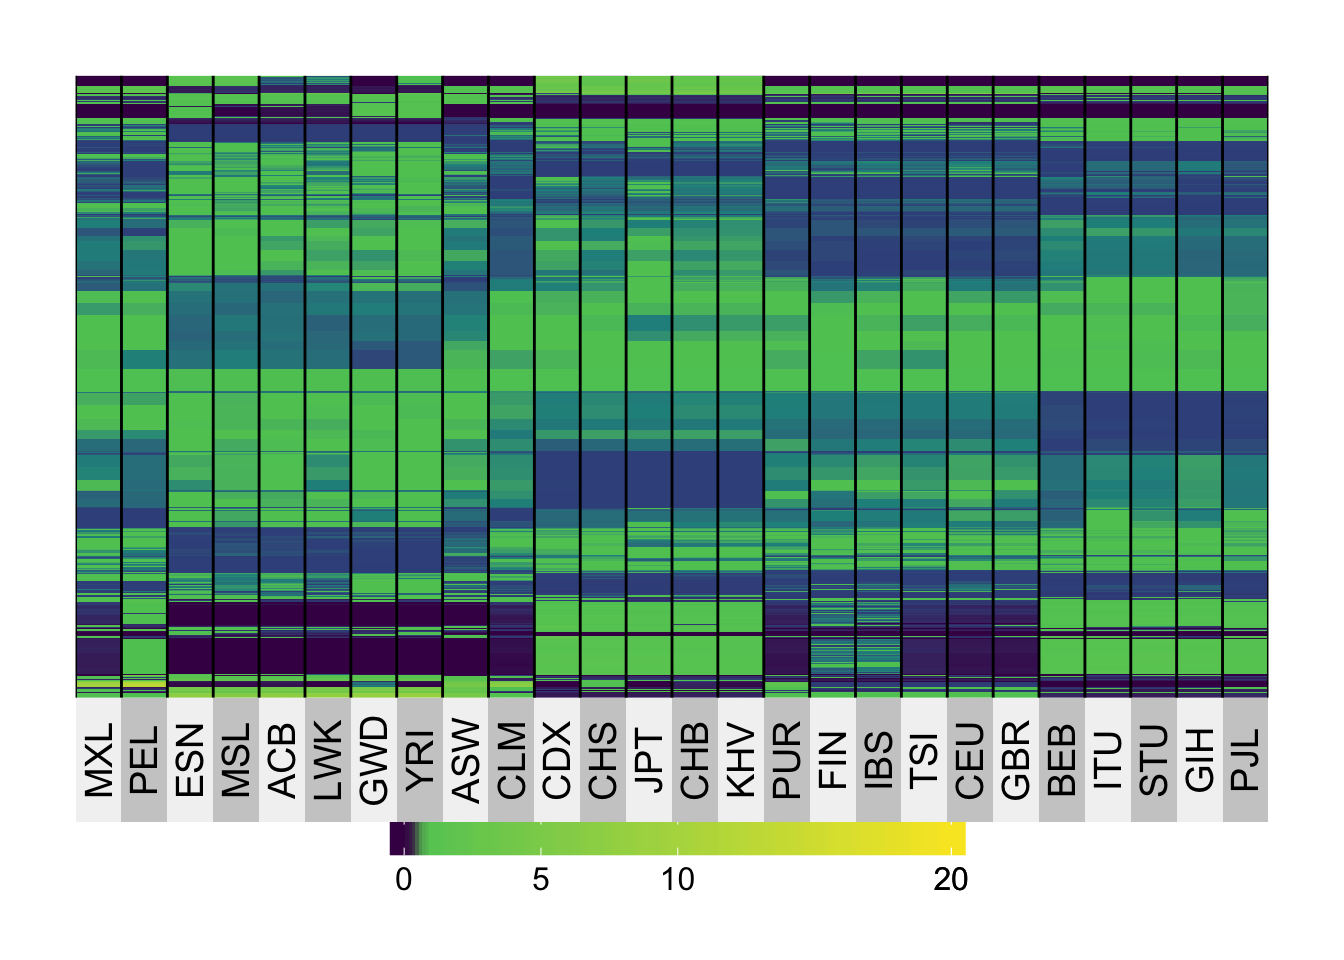
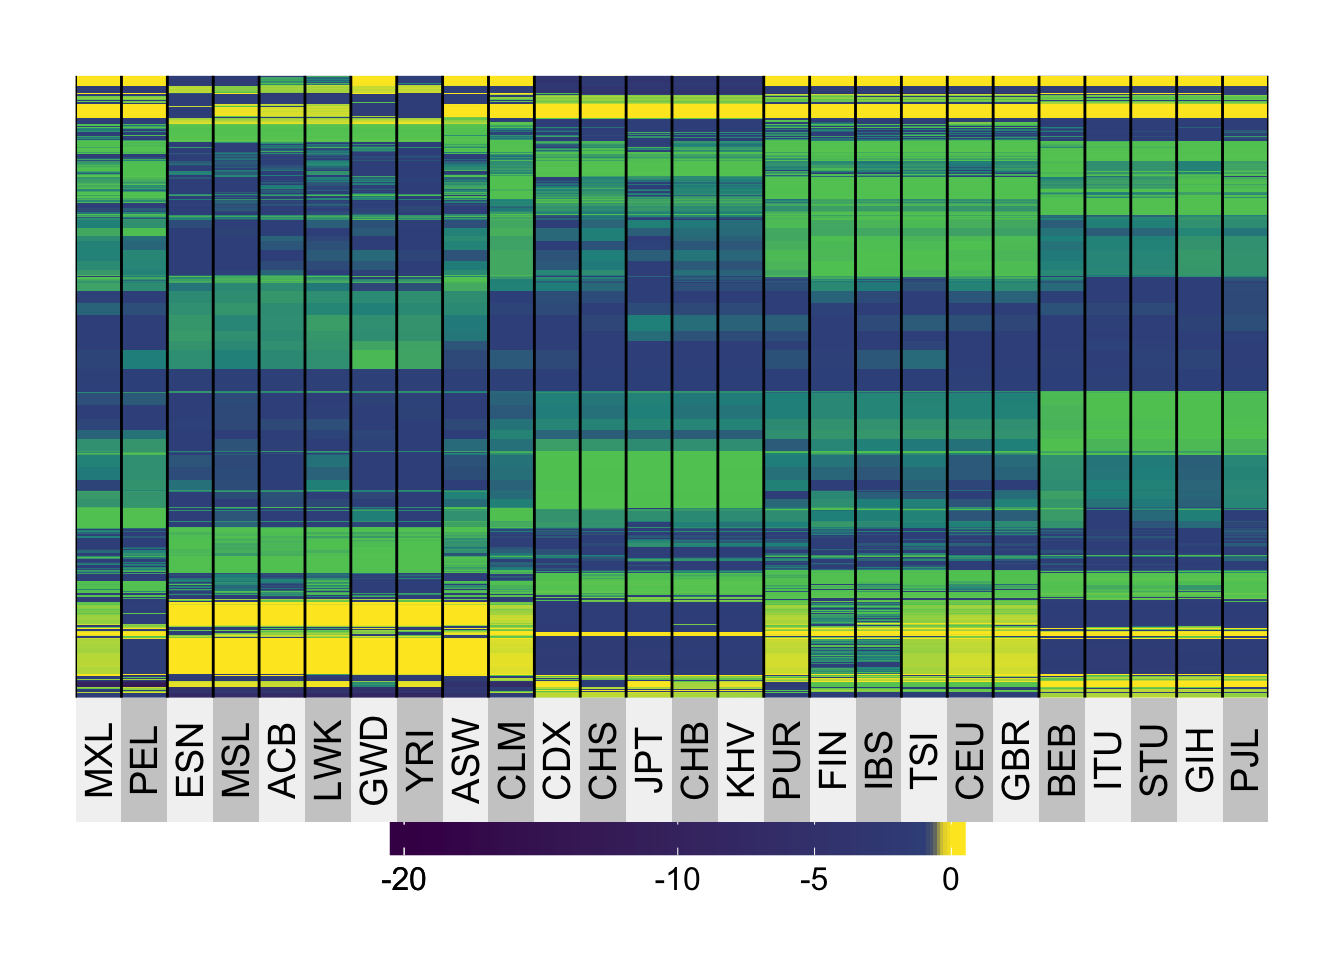
Build site.

diff --git a/docs/All_chr22_8000.html b/docs/All_chr22_8000.html
@@ -313,10 +313,10 @@ div.tocify {
 shared across the workflowr files. -->
 <!-- Update knitr chunk options -->
 <!-- Insert the date the file was last updated -->
-<p><strong>Last updated:</strong> 2017-04-25</p>
+<p><strong>Last updated:</strong> 2017-05-01</p>
 <!-- Insert the code version (Git commit SHA1) if Git repository exists and R
  package git2r is installed -->
-<p><strong>Code version:</strong> c4151b7</p>
+<p><strong>Code version:</strong> eabdf3e</p>
 <!-- Add your analysis here -->
 <div id="ignore-this-part-this-is-code-i-used." class="section level2">
 <h2>ignore this part, this is code I used.</h2>
@@ -434,13 +434,13 @@ plot(log(pve), main = &quot;log PVE&quot;)</code></pre>
 <div id="use--log_10-for-the-structure" class="section level2">
 <h2>use <span class="math inline">\(-log_{10}\)</span> for the structure</h2>
 <pre class="r"><code>library(boot)
-log_10_G = -log10(inv.logit(g$l %*% t(g$f)))
-log_10_G_2 = -log10(inv.logit(g$l[,2:14] %*% t(g$f[,2:14])))
+log_10_G = log10(inv.logit(g$l %*% t(g$f)))
+log_10_G_2 = log10(inv.logit(g$l[,2:14] %*% t(g$f[,2:14])))
 colnames(log_10_G) = colnames(Y)
 colnames(log_10_G_2) = colnames(Y)
 superheat::superheat(log_10_G_2,pretty.order.rows = T,pretty.order.cols = T,bottom.label.text.angle = 90)</code></pre>
 <p><img src="figure/All_chr22_8000.Rmd/unnamed-chunk-9-1.png" width="672" style="display: block; margin: auto;" /></p>
-<pre class="r"><code>superheat::superheat(log_10_G,pretty.order.rows = T,pretty.order.cols = T)</code></pre>
+<pre class="r"><code>superheat::superheat(log_10_G,pretty.order.rows = T,pretty.order.cols = T,bottom.label.text.angle = 90)</code></pre>
 <p><img src="figure/All_chr22_8000.Rmd/unnamed-chunk-9-2.png" width="672" style="display: block; margin: auto;" /></p>
 </div>
 <div id="session-information" class="section level2">
@@ -458,13 +458,17 @@ attached base packages:
 [1] stats     graphics  grDevices utils     datasets  methods   base     
 
 other attached packages:
-[1] boot_1.3-18     ggplot2_2.2.1   reshape2_1.4.2  workflowr_0.4.0 rmarkdown_1.3  
+[1] ggplot2_2.2.1   reshape2_1.4.2  workflowr_0.4.0 rmarkdown_1.3  
+[5] boot_1.3-18    
 
 loaded via a namespace (and not attached):
- [1] Rcpp_0.12.10     knitr_1.15.1     magrittr_1.5     superheat_0.1.0  munsell_0.4.3    colorspace_1.3-2 R6_2.2.0        
- [8] dplyr_0.5.0      stringr_1.2.0    plyr_1.8.4       tools_3.3.0      grid_3.3.0       gtable_0.2.0     DBI_0.5-1       
-[15] git2r_0.18.0     htmltools_0.3.5  yaml_2.1.14      lazyeval_0.2.0   rprojroot_1.2    digest_0.6.12    assertthat_0.2.0
-[22] tibble_1.2       evaluate_0.10    labeling_0.3     stringi_1.1.2    scales_0.4.1     backports_1.0.5 </code></pre>
+ [1] Rcpp_0.12.10     knitr_1.15.1     magrittr_1.5     superheat_0.1.0 
+ [5] munsell_0.4.3    colorspace_1.3-2 R6_2.2.0         stringr_1.2.0   
+ [9] plyr_1.8.4       dplyr_0.5.0      tools_3.3.0      grid_3.3.0      
+[13] gtable_0.2.0     DBI_0.5-1        git2r_0.18.0     htmltools_0.3.5 
+[17] yaml_2.1.14      lazyeval_0.2.0   rprojroot_1.2    digest_0.6.12   
+[21] assertthat_0.2.0 tibble_1.2       evaluate_0.10    labeling_0.3    
+[25] stringi_1.1.2    scales_0.4.1     backports_1.0.5 </code></pre>
 </div>
 
 <hr>
